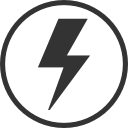
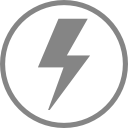
✔ 상장 받기 - 뱃지 넘버 색상 변경, 쇼케이스 진열 중,비공개 버튼 색상 변경/댓글 내역 버튼 위치 및 색상 변경/3d 초기화하기(1080도 돌아가기,transition)/차지 아이콘 off 색 변경

Changed region(s): [[0.0, 0.0, 1.0, 1.0], [0.2812, 0.125, 0.7188, 0.875]]

diff --git a/www/assets/css/pages.css b/www/assets/css/pages.css
@@ -117,8 +117,8 @@
         .tag-ability__list__item{flex:none;box-shadow: 6px 1px 10px rgb(0 0 0 / 10%);border-radius:6px;overflow:hidden;}
         .tag-skill{position:relative;display:flex;align-items:center;border:1px solid #d4d4d4;overflow:hidden;border-radius:6px;}
         .tag-skill__gauge{width:0;z-index:1;background:#f900cc;background:none;overflow:hidden;text-indent:-9999999px;}
-        .tag-skill__num{position:relative;z-index:1;background:#ababab;background:#f2a83b;font-size:12px;color:#fff;padding:4px 8px;}
-        .tag-skill__up{display:inline-block;font-size: 10px;transform: scale(0.5);position:absolute;top:0;right:0;}
+        .tag-skill__num{position:relative;z-index:1;font-size:12px;background:#ababab;background:#f2a83b;background:#fb6464;background:#fff;background:var(--primary);color:#000;color:#fff;border-right:1px solid #d4d4d4;padding:4px 8px;}
+        .tag-skill__up{display:inline-block;display:none;font-size: 10px;transform: scale(0.5);position:absolute;top:0;right:0;}
         .tag-skill__name{position:relative;z-index:1;color:#000;font-size:12px;padding:4px 8px;line-height:1.2;}
         .tag-ability.tag-ability-st01 {}
         .tag-ability.tag-ability-st01 .tag-ability__list{overflow:auto;justify-content: flex-start;flex-wrap:nowrap;padding-bottom:4px;}
@@ -685,7 +685,7 @@
 /* 상장 보기 */
     .content-sz-view .post__list > .r > .c{width:100%;max-width:none;}
     .content-sz-view .post__list__outer{padding:0;margin:0;}
-    .content-sz-view .showcase-state{width:100%;text-align:center;padding:5px 0;margin:2px 0;}
+    .content-sz-view .showcase-state{width:100%;text-align:right;padding:5px 0;margin:2px 0;}
     .sz-design{display:block;width:100%;}
 
     /** 상장 내부 글쓰기 영역 제거 */
@@ -693,19 +693,20 @@
     /** 상장 내부 글쓰기 영역 제거 End */
 
     /** 옵션 선택 */
-        .showcase-in-select{padding:20px 0;gap:20px;text-align:center;justify-content:center;margin-bottom:20px;}
+        .showcase-in-select{padding:20px 0;gap:20px;text-align:center;justify-content:center;}
         .sz-public-select{padding:20px 0 10px 0;gap:20px;text-align:center;justify-content:center;margin-bottom:10px;}
+        .showcase-link{padding-bottom:0px;justify-content:center;}
     /** 옵션 선택 End */
 
     /** 상장 받기 기능 */
-    .sz-function-receive{width:100%;margin-top:5px;margin-bottom:5px;text-align:center;padding:10px;overflow:hidden;background:#171717;border-radius: 8px;border-top-right-radius: 0;border-top-left-radius: 0;}
+    .sz-function-receive{width:100%;margin-top:0px;margin-bottom:0px;text-align:center;padding:10px;overflow:hidden;background:#171717;border-radius: 8px;border-top-right-radius: 0;border-top-left-radius: 0;}
     /** 상장 받기 기능 End */
 
     /** 상장 기능 */
         .sz-function-btn{margin-top:5px;text-align:center;padding:10px;}
         .sz-function{text-align:center;}
         .sz-function.sz-function-01{margin-bottom:10px;padding:12px 0 8px 0;margin:5px 0 0px 0;width:100%;border:1px solid #e9e9e9;}
-        .sz-function.sz-function-01 a{margin:0 10px;opacity:.4;}
+        .sz-function.sz-function-01 a{margin:0 10px;opacity:.5;}
         .sz-function.sz-function-01 a:hover{opacity:1;}
         .sz-function.sz-function-01 img{position:relative;top:-3px;height:24px;}
         .sz-function.sz-function-01 .scrap img{height: 28px;}
@@ -919,7 +920,7 @@
     .add-ability-counting__header{background:#f4f4f4;background:#fff;border:1px solid #ccc;box-shadow:6px 1px 10px rgb(0 0 0 / 10%);}
     .add-ability-counting__header__title{font-size:20px;font-weight:bold;padding-top:10px;}
     /*.add-ability-counting__header__remain__list{display:inline-flex;margin-top:10px;gap:0 10px;}*/
-    .counting-number{border:1px solid #d68000;background:#f2a83b;color:#fff;border-radius:10px;display:inline-flex;align-items:center;justify-content:center;width:30px;height:30px;}
+    .counting-number{border:1px solid #d68000;background:#f2a83b;background:var(--primary);color:#fff;border-radius:10px;display:inline-flex;align-items:center;justify-content:center;width:30px;height:30px;}
     .counting-number.sm{width:40px;height:40px;font-size:14px;}
     .counting-number.off{background:#fff;color:var(--black);border-color:#d4d4d4;}
     .add-ability-counting__header__remain_num{font-size:20px;font-weight:600;padding-bottom:10px;}

diff --git a/www/assets/css/guide.css b/www/assets/css/guide.css
@@ -25,7 +25,7 @@
     /** 색상 */
     --primary: #da4f4d;
     --secondary: #ff8b2e;
-    --gray: #f8f8f8;
+    --gray: #eaeaea;
     --gray-border-color: #e6e6e6;
     --white: #fff;
     --black: #404047;

diff --git a/www/pages/sz_view.php b/www/pages/sz_view.php
@@ -41,10 +41,10 @@
                                         </div>
                                     </div>
                                     <div class="r post__row">
-                                        <div class="showcase-state" style="text-align:right;">
+                                        <div class="showcase-state">
                                             <!--<button type="button" class="button small" id="addShowcase">쇼케이스에 진열</button>-->
-                                            <button type="button" class="button sm MODAL-BTN" data-target="#modalShowcaseSwitching">쇼케이스 진열 중</button>
-                                            <button type="button" class="btn-black sm MODAL-BTN" data-target="#modalSzPublic">비공개</button>
+                                            <button type="button" class="button btn-white sm MODAL-BTN" data-target="#modalShowcaseSwitching">쇼케이스 진열 중</button>
+                                            <button type="button" class="btn-primary bordered sm MODAL-BTN sm MODAL-BTN" data-target="#modalSzPublic">비공개</button>
                                         </div>
                                     </div>
                                     <div class="r post__row">
@@ -329,37 +329,37 @@
                                                 </li>
                                                 <li class="c tag-ability__list__item">
                                                     <div class="tag-skill">
-                                                        <span class="tag-skill__num"><span class="tag-skill__value">1</span><span class="tag-skill__up">↑</span></span>
+                                                        <span class="tag-skill__num"><span class="tag-skill__value">84</span><span class="tag-skill__up">↑</span></span>
                                                         <span class="tag-skill__name">아트</span>
                                                     </div>
                                                 </li>
                                                 <li class="c tag-ability__list__item">
                                                     <div class="tag-skill">
-                                                        <span class="tag-skill__num"><span class="tag-skill__value">1</span><span class="tag-skill__up">↑</span></span>
+                                                        <span class="tag-skill__num"><span class="tag-skill__value">34</span><span class="tag-skill__up">↑</span></span>
                                                         <span class="tag-skill__name">beauty</span>
                                                     </div>
                                                 </li>
                                                 <li class="c tag-ability__list__item">
                                                     <div class="tag-skill">
-                                                        <span class="tag-skill__num"><span class="tag-skill__value">1</span><span class="tag-skill__up">↑</span></span>
+                                                        <span class="tag-skill__num"><span class="tag-skill__value">111</span><span class="tag-skill__up">↑</span></span>
                                                         <span class="tag-skill__name">게임</span>
                                                     </div>
                                                 </li>
                                                 <li class="c tag-ability__list__item">
                                                     <div class="tag-skill">
-                                                        <span class="tag-skill__num"><span class="tag-skill__value">1</span><span class="tag-skill__up">↑</span></span>
+                                                        <span class="tag-skill__num"><span class="tag-skill__value">32</span><span class="tag-skill__up">↑</span></span>
                                                         <span class="tag-skill__name">맥북</span>
                                                     </div>
                                                 </li>
                                                 <li class="c tag-ability__list__item">
                                                     <div class="tag-skill">
-                                                        <span class="tag-skill__num"><span class="tag-skill__value">1</span><span class="tag-skill__up">↑</span></span>
+                                                        <span class="tag-skill__num"><span class="tag-skill__value">114</span><span class="tag-skill__up">↑</span></span>
                                                         <span class="tag-skill__name">여행</span>
                                                     </div>
                                                 </li>
                                                 <li class="c tag-ability__list__item">
                                                     <div class="tag-skill">
-                                                        <span class="tag-skill__num"><span class="tag-skill__value">1</span><span class="tag-skill__up">↑</span></span>
+                                                        <span class="tag-skill__num"><span class="tag-skill__value">1536</span><span class="tag-skill__up">↑</span></span>
                                                         <span class="tag-skill__name">nature</span>
                                                     </div>
                                                 </li>

diff --git a/www/include/modal_common.php b/www/include/modal_common.php
@@ -1357,6 +1357,9 @@
 
                         <!-- 모달 바디 -->
                         <div class="modal-body">
+                            <div class="r showcase-link">
+                                <a href="/pages/myroom.php" class="link-primary">쇼케이스 보기</a>
+                            </div>
                             <div class="r showcase-in-select">
                                 <span class="forms">
                                     <input type="radio" name="showcase-in" value="radio-showcase-in" id="radio-showcase-in" checked="checked">
@@ -1372,7 +1375,6 @@
 
                         <!-- 모달 푸터 -->
                         <div class="modal-footer">
-                            <a href="/pages/myroom.php" class="btn btn-white">쇼케이스 보기</a>
                             <button class="btn">확인</button>
                             <button class="btn btn-negative MODAL-CLOSE">취소</button>
                         </div>
@@ -1886,17 +1888,17 @@
                                         </div>
                                     </div>
                                     <div class="c">
-                                    <span class="forms forms-full">
-                                        <input type="text" placeholder="댓글을 입력하세요." value="" id="inputKeyward" class="INPUT-RESET">
-                                    </span>
-                                    </div>
-                                    <div class="c c-inner-width">
-                                        <div class="writing-btn">
-                                        <span class="forms">
-                                            <button type="button" class="btn-writing">작성</button>
+                                        <span class="forms forms-full">
+                                            <input type="text" placeholder="댓글을 입력하세요." value="" id="inputKeyward" class="INPUT-RESET">
                                         </span>
-                                        </div>
                                     </div>
+<!--                                    <div class="c c-inner-width">-->
+<!--                                        <div class="writing-btn">-->
+<!--                                        <span class="forms">-->
+<!--                                            <button type="button" class="btn-writing">작성</button>-->
+<!--                                        </span>-->
+<!--                                        </div>-->
+<!--                                    </div>-->
                                 </div>
                             </div>
                         </div>
@@ -1904,7 +1906,7 @@
 
                         <!-- 모달 푸터 -->
                         <div class="modal-footer">
-                            <!--                            <button class="btn">확인</button>-->
+                            <button class="btn">작성</button>
                             <button class="btn btn-negative MODAL-CLOSE">취소</button>
                         </div>
                         <!-- 모달 푸터 End -->
@@ -2015,17 +2017,17 @@
                                         </div>
                                     </div>
                                     <div class="c">
-                                    <span class="forms forms-full">
-                                        <input type="text" placeholder="댓글을 입력하세요." value="" id="inputKeyward" class="INPUT-RESET">
-                                    </span>
-                                    </div>
-                                    <div class="c c-inner-width">
-                                        <div class="writing-btn">
-                                        <span class="forms">
-                                            <button type="button" class="btn-writing-modal">작성</button>
+                                        <span class="forms forms-full">
+                                            <input type="text" placeholder="댓글을 입력하세요." value="" id="inputKeyward" class="INPUT-RESET">
                                         </span>
-                                        </div>
                                     </div>
+<!--                                    <div class="c c-inner-width">-->
+<!--                                        <div class="writing-btn">-->
+<!--                                            <span class="forms">-->
+<!--                                                <button type="button" class="btn-writing-modal">작성</button>-->
+<!--                                            </span>-->
+<!--                                        </div>-->
+<!--                                    </div>-->
                                 </div>
                             </div>
 
@@ -2034,7 +2036,7 @@
 
                         <!-- 모달 푸터 -->
                         <div class="modal-footer">
-                            <!--                            <button class="btn">확인</button>-->
+                            <button class="btn">작성</button>
                             <button class="btn btn-negative MODAL-CLOSE">취소</button>
                         </div>
                         <!-- 모달 푸터 End -->

diff --git a/www/pages/3d-card.php b/www/pages/3d-card.php
@@ -143,12 +143,10 @@
             // alert("Original width=" + originalWidth + ", " + "Original height=" + originalHeight);
             console.log(ratio);
             let height = $('#my_cube').height();
-            $('#my_cube').css('width',height * ratio+'px').css('transform', 'rotateX(0deg) rotateY(-2700deg) rotateZ(0deg)')
+            $('#my_cube').css('width',height * ratio+'px');
+            // $('#my_cube').css('width',height * ratio+'px').css('transform', 'rotateX(0deg) rotateY(-2700deg) rotateZ(0deg)')
 
         }
     </script>
-    <style>
-        #my_cube{transition:transform 3s;}
-    </style>
 </div>
 </body>
